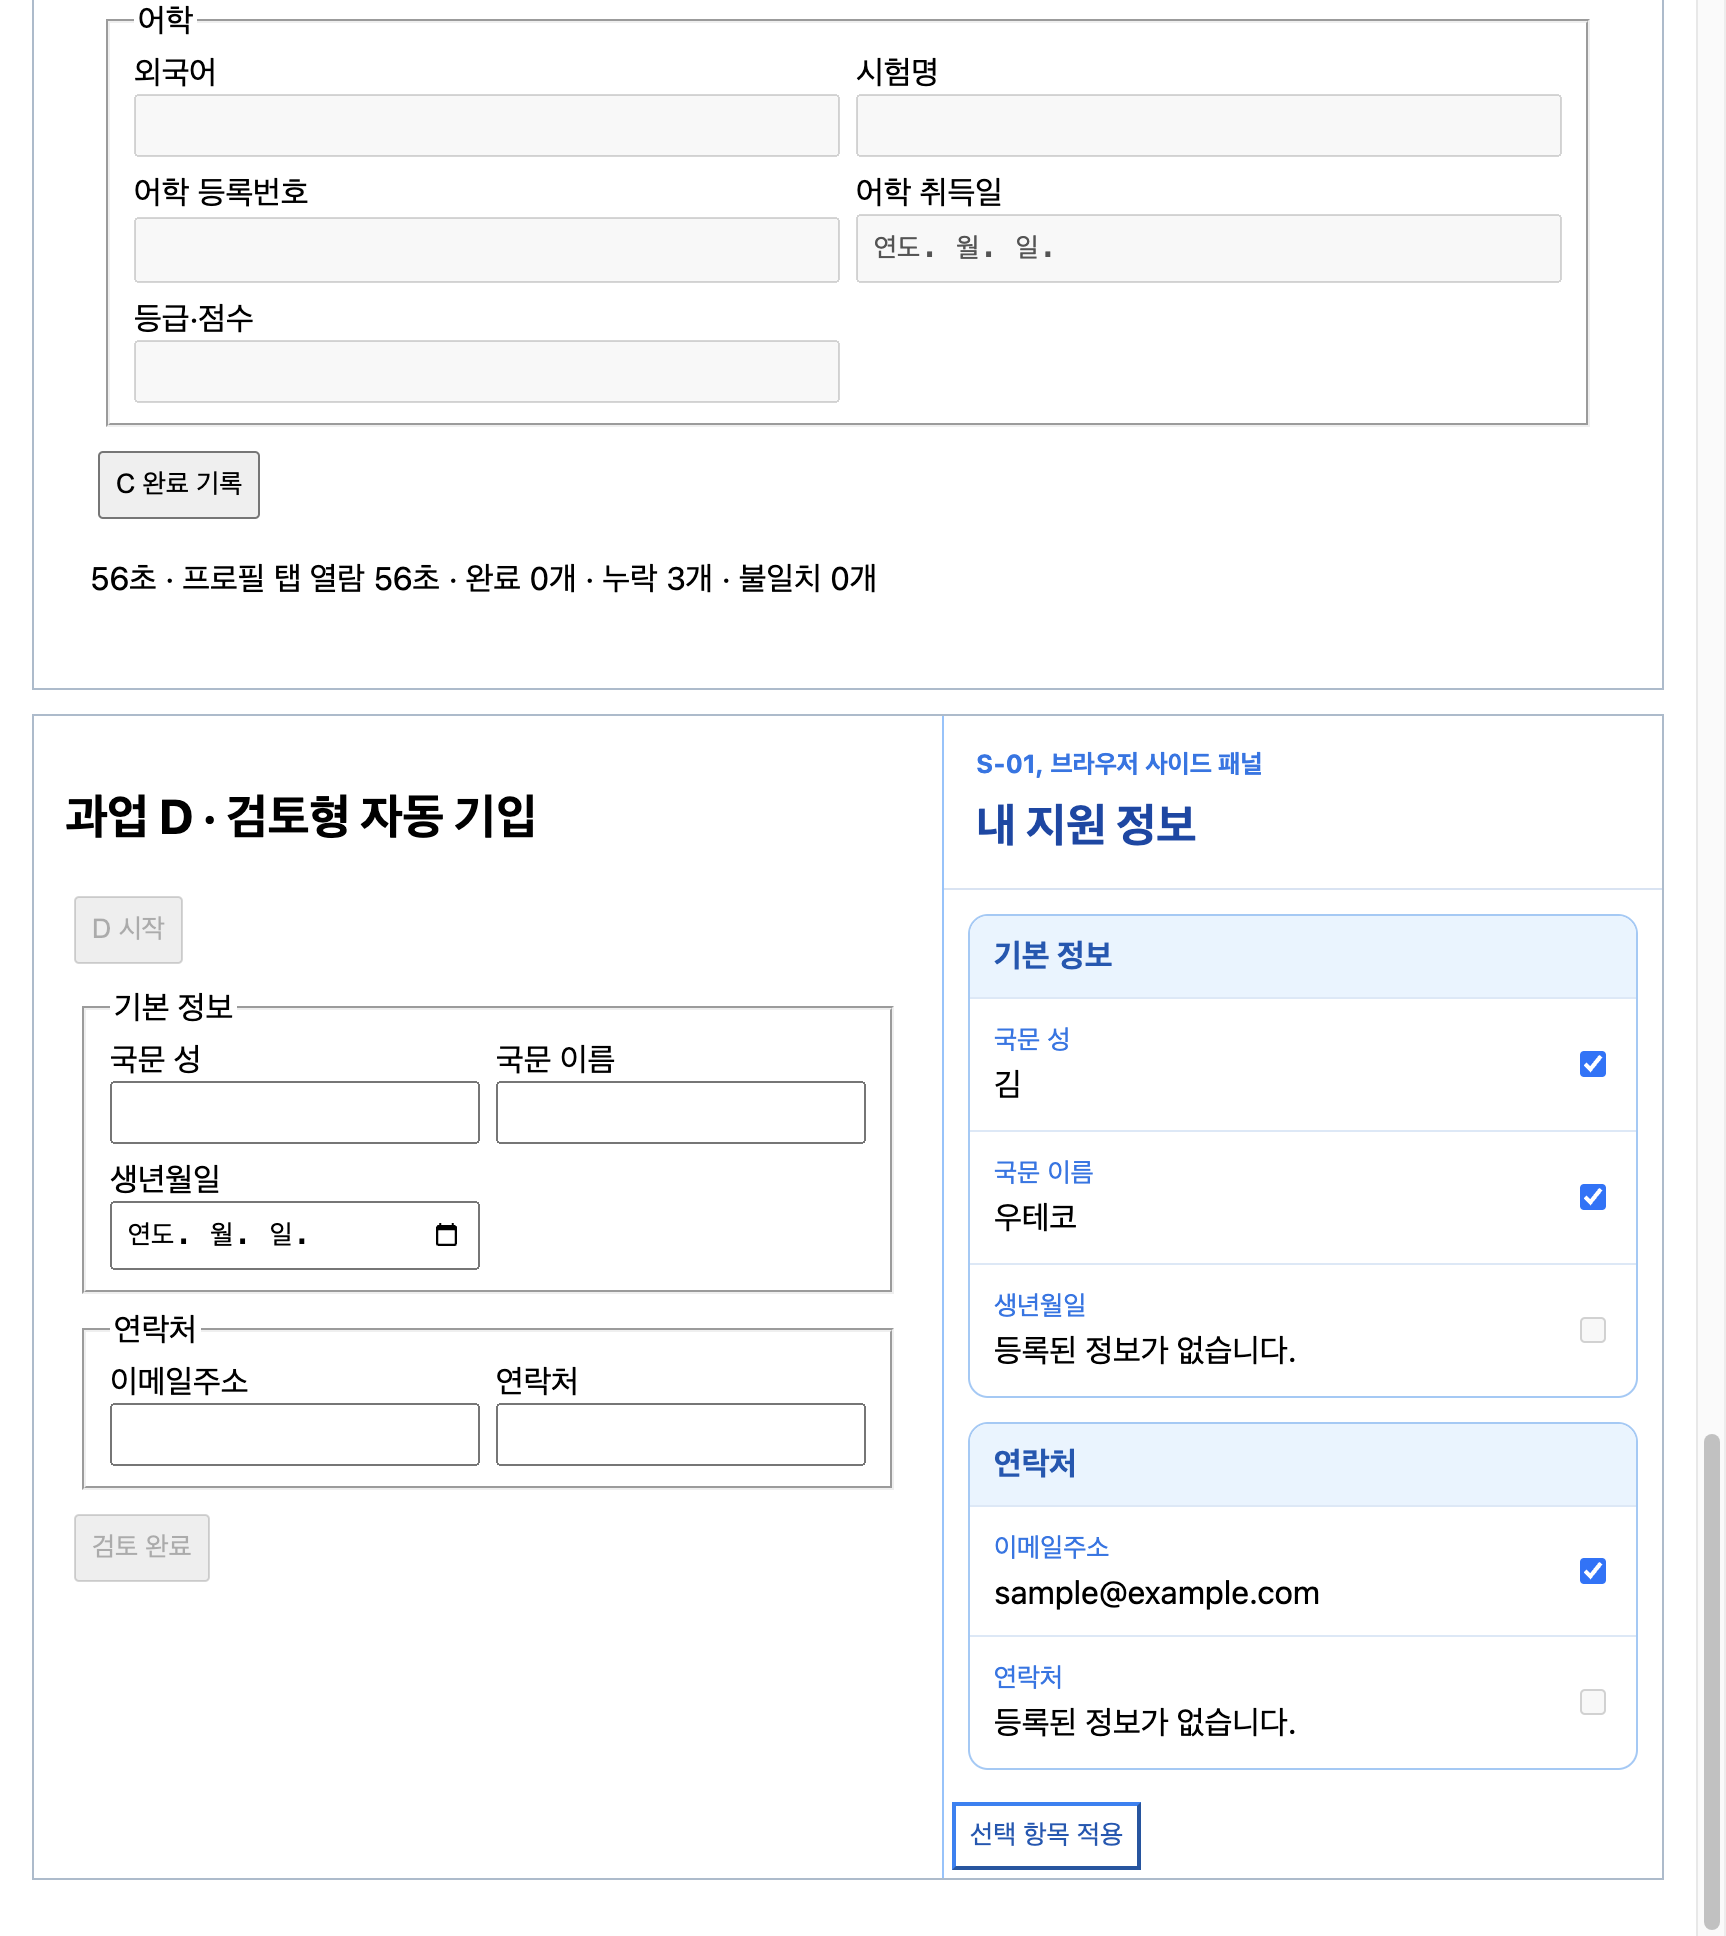
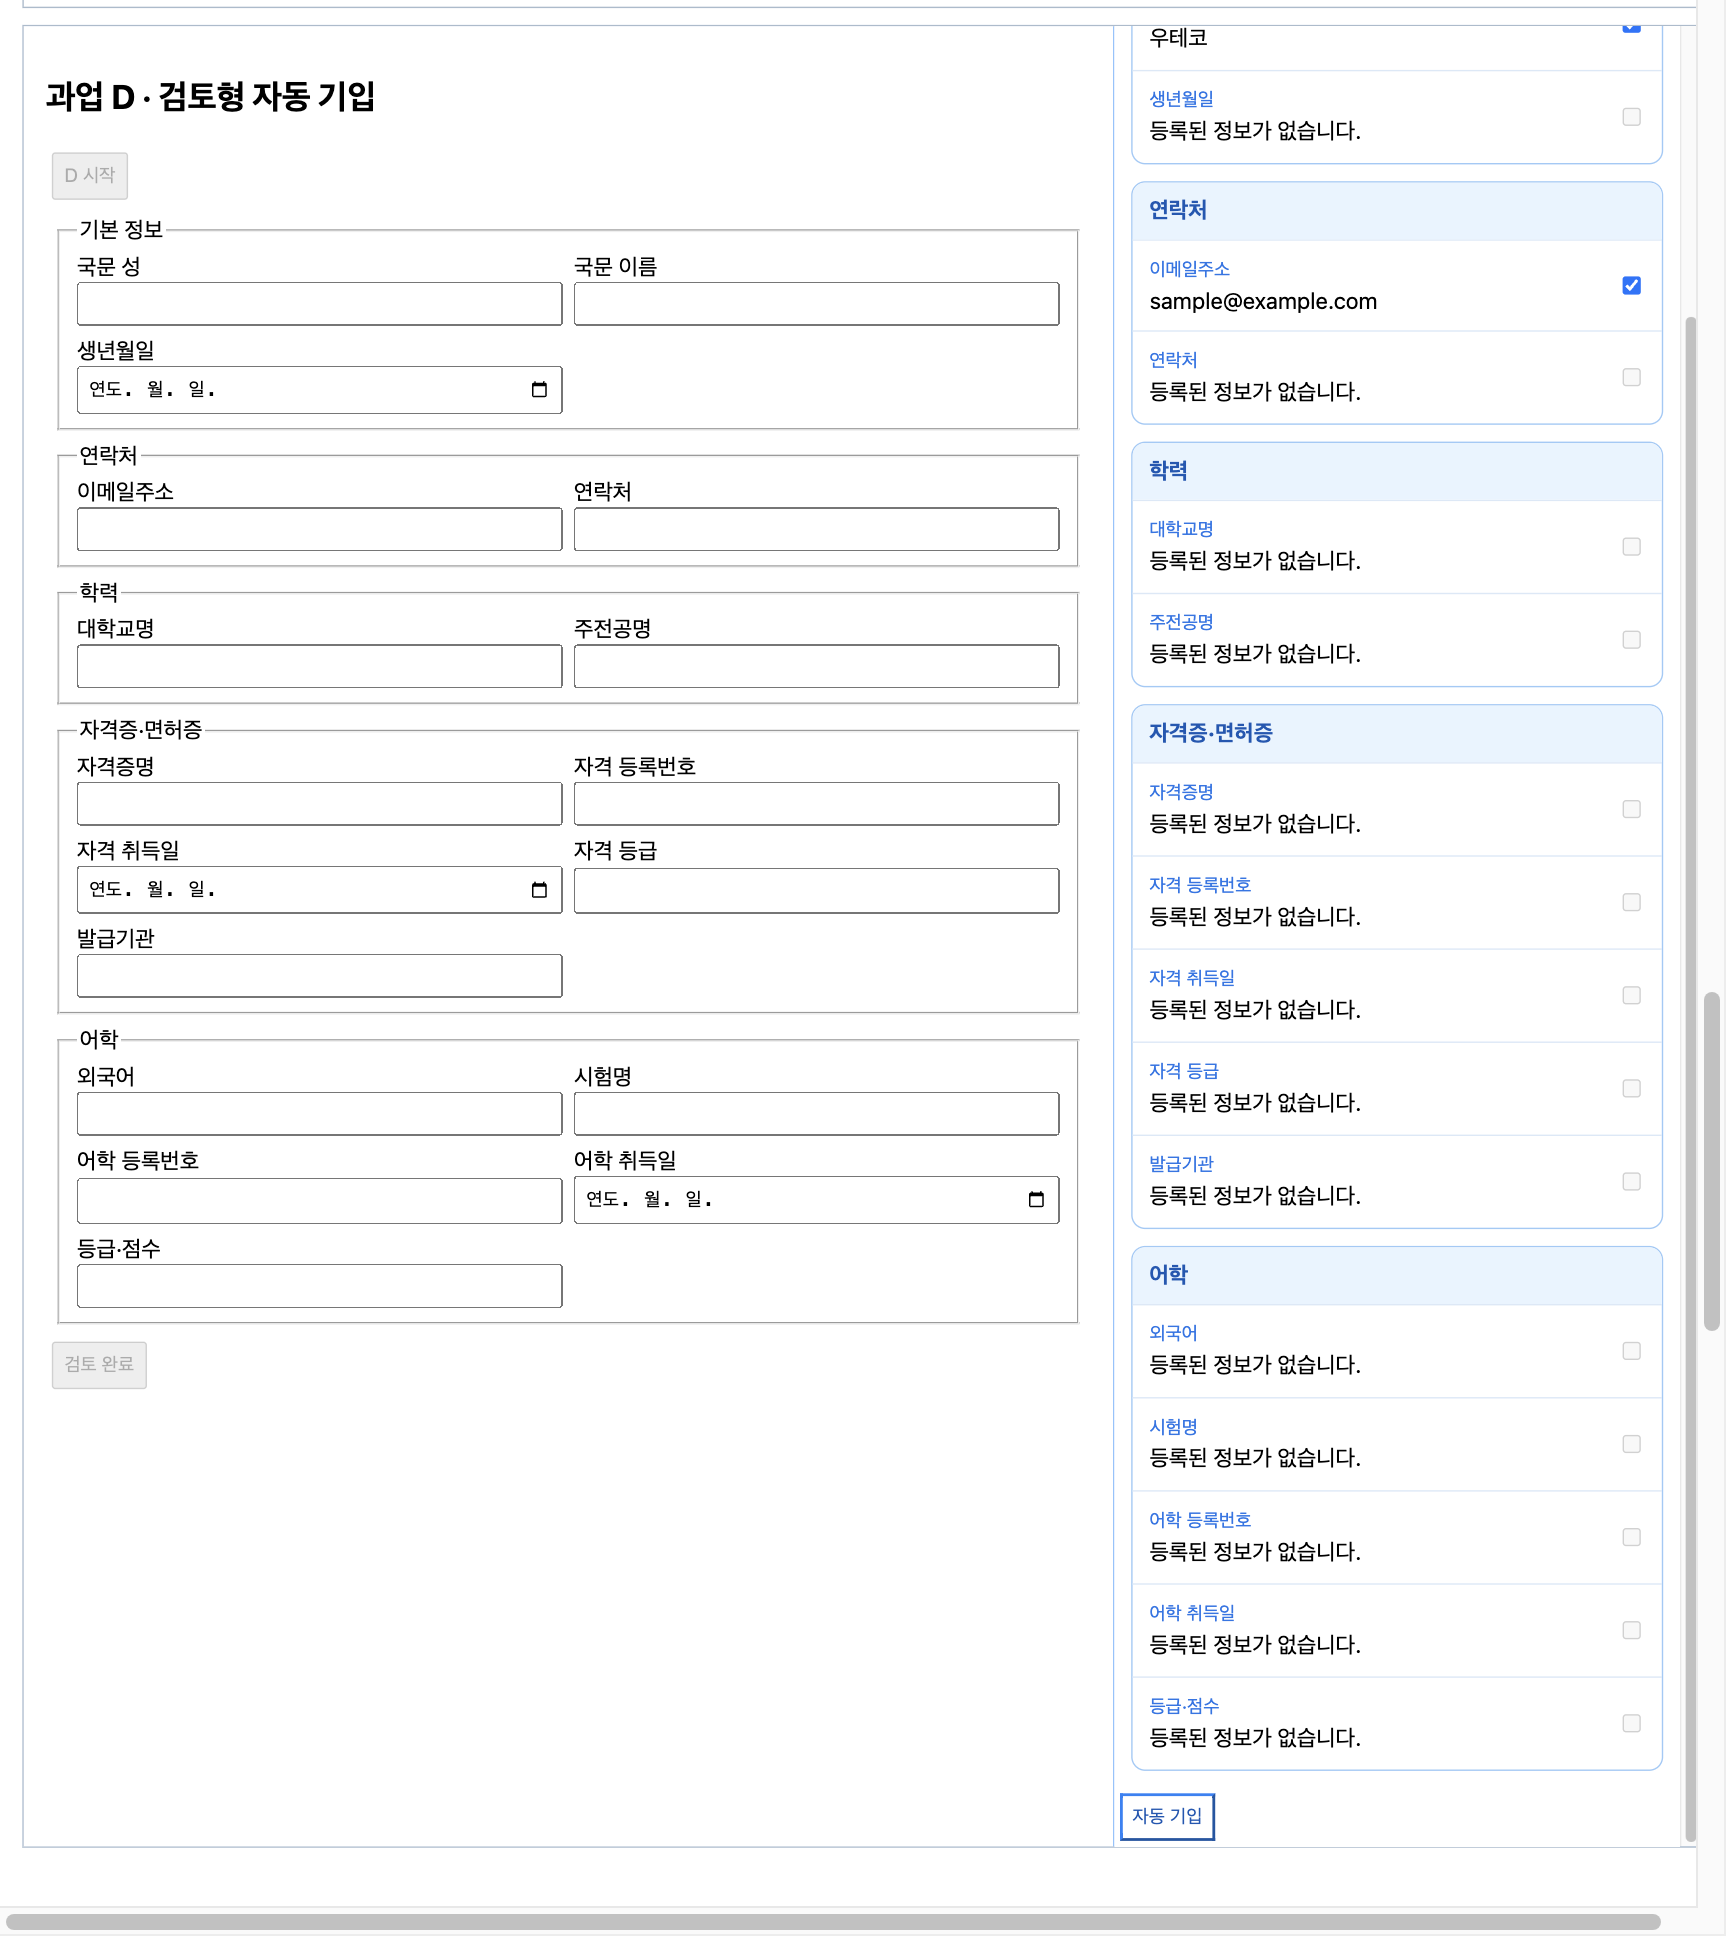
fix: D 자동 기입 버튼 캡처 보강

diff --git a/presentation/styles.css b/presentation/styles.css
@@ -150,7 +150,7 @@ code { padding: 9px 14px; border: 1px solid #3a3a3a; border-radius: 8px; backgro
 .method-evidence article { min-width: 0; }
 .method-evidence figure { width: 100%; height: 470px; margin: 0; overflow: hidden; border: 2px solid #3e3e3e; border-radius: 12px; background: #0b0b0b; }
 .method-evidence img { width: 100%; height: 100%; object-fit: cover; object-position: top; }
-.method-evidence .method-d img { object-position: center 78%; }
+.method-evidence .method-d img { object-position: center bottom; }
 .method-caption { display: grid; grid-template-columns: 74px 1fr; gap: 24px; align-items: start; padding-top: 26px; }
 .method-caption > b { display: grid; place-items: center; width: 70px; height: 70px; border: 4px solid var(--accent); border-radius: 50%; color: var(--accent); font-size: 30px; }
 .method-caption h3 { margin: 0 0 10px; font-size: 32px; }
